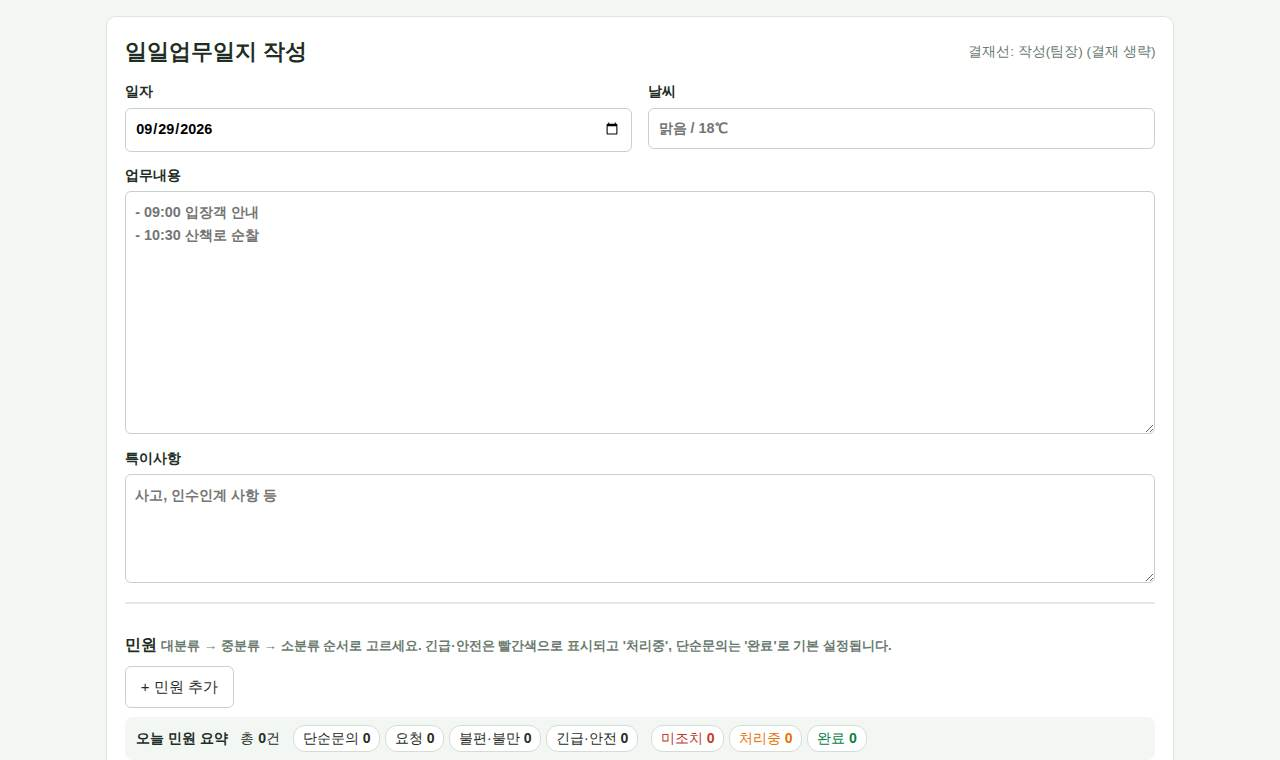
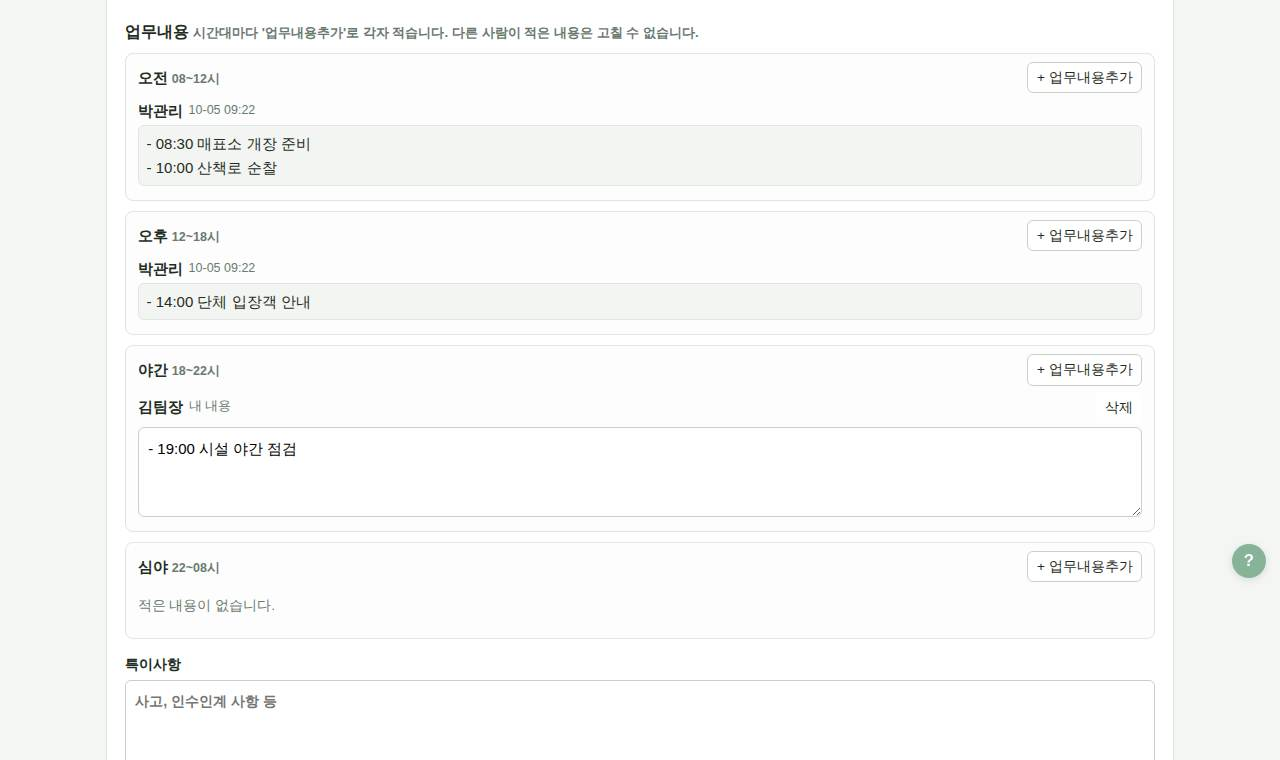
업무일지: 하루 1건 · 시간대별(오전·오후·야간·심야) 업무내용 (DB v47)
- 같은 날짜 일지가 있으면 새로 만들지 않고 그 일지로 이동, 저장 시 중복 차단
- daily_entries: 시간대별 작성자별 업무내용, 업무내용추가 창으로 입력
- 다른 사람 항목은 읽기 전용, 본인 항목만 수정·삭제
- 예전 일지는 기존 입력 방식 유지, 도움말·README·업데이트 내역 반영

Claude-Session: https://claude.ai/code/session_01Lr6yxKyasrSL9QLfMX5TX8

diff --git a/assets/style.css b/assets/style.css
@@ -1260,3 +1260,24 @@ body.rt-printmode .rt-focus-print { white-space: pre-wrap; font-size: 10pt; min-
   body.rt-printmode .help-fab, body.rt-printmode .tab-bar, body.rt-printmode main.container > .print-head { display: none !important; } /* 이 화면은 자체 머리글 */
   body.rt-printmode .rt-form .card { break-inside: avoid; }
 }
+
+/* 일일업무일지: 시간대별 업무내용 */
+.daily-slots { margin: 8px 0 14px; }
+.daily-slot { border: 1px solid var(--line, #e2e2e2); border-radius: 8px; padding: 8px 12px; margin-bottom: 10px; background: #fcfdfc; }
+.daily-slot-head { display: flex; justify-content: space-between; align-items: center; gap: 8px; }
+.daily-slot-head h4 { margin: 2px 0; }
+.daily-entry { border-top: 1px dashed var(--line, #e2e2e2); padding: 6px 0; }
+.daily-entry:first-child { border-top: 0; }
+.daily-entry .who { display: flex; align-items: center; gap: 6px; margin-bottom: 3px; }
+.daily-entry .who .btn { margin-left: auto; }
+.daily-entry.other .pre { background: #f3f5f3; border-radius: 6px; padding: 6px 8px; }
+.daily-entry.mine textarea { width: 100%; box-sizing: border-box; }
+.daily-entry.new { background: #fffbea; border-radius: 6px; padding: 6px; }
+.daily-dialog { width: min(640px, 92vw); border: 1px solid var(--line, #ccc); border-radius: 10px; padding: 16px; }
+.daily-dialog::backdrop { background: rgba(0, 0, 0, .35); }
+.daily-dialog textarea { width: 100%; box-sizing: border-box; }
+.daily-view { display: grid; grid-template-columns: 1fr 1fr; gap: 10px; }
+@media (max-width: 800px) { .daily-view { grid-template-columns: 1fr; } }
+.daily-view-slot { border: 1px solid var(--line, #e2e2e2); border-radius: 8px; padding: 6px 10px; }
+.daily-view-slot h4 { margin: 2px 0 4px; }
+@media print { .daily-view { grid-template-columns: 1fr 1fr; } }

diff --git a/app/daily.php b/app/daily.php
@@ -1,0 +1,206 @@
+<?php
+defined('APP_ROOT') || exit;
+
+/*
+ * 일일업무일지(운영관리 › 업무일지): 하루 1건, 업무내용을 시간대(오전·오후·야간·심야)로 나눠 사람마다 따로 적는다.
+ *   '업무내용추가'를 누르면 로그인한 사람의 작성 창이 뜨고, 다른 사람이 적은 내용은 고칠 수 없는 글로 보인다.
+ *   journals.content 는 시간대별 내용을 모아 자동으로 만든다 (목록·수정 이력·검색에 그대로 쓰임).
+ *   이 기능 전에 쓴 일지(시간대 내용 없이 업무내용만 있는 문서)는 예전처럼 업무내용 한 칸으로 보이고 고친다.
+ */
+
+const DAILY_SLOTS = ['am' => ['오전', '08~12시'], 'pm' => ['오후', '12~18시'], 'eve' => ['야간', '18~22시'], 'night' => ['심야', '22~08시']];
+
+/** 시간대별 업무내용 [slot => [['id','user_id','user_name','content','created_at','updated_at'], ...]] */
+function daily_entries(int $journalId): array
+{
+    $out = array_fill_keys(array_keys(DAILY_SLOTS), []);
+    if (!$journalId) return $out;
+    $st = db()->prepare('SELECT d.*, u.name AS user_name FROM daily_entries d LEFT JOIN users u ON u.id = d.user_id WHERE d.journal_id = ? ORDER BY d.id');
+    $st->execute([$journalId]);
+    foreach ($st as $r) if (isset($out[$r['slot']])) $out[$r['slot']][] = $r;
+    return $out;
+}
+
+/** 예전 방식(업무내용 한 칸) 문서: 시간대 내용이 없고 업무내용이 있는 문서 */
+function daily_is_legacy(?array $journal): bool
+{
+    if (!$journal || $journal['type'] !== 'daily' || trim((string) $journal['content']) === '') return false;
+    $st = db()->prepare('SELECT COUNT(*) FROM daily_entries WHERE journal_id = ?');
+    $st->execute([(int) $journal['id']]);
+    return !(int) $st->fetchColumn();
+}
+
+/** 그 날의 일일업무일지 (하루 1건, 반려 포함 — 있으면 그 문서를 고친다) */
+function daily_find_by_date(string $date, int $exceptId = 0): ?array
+{
+    $st = db()->prepare("SELECT id FROM journals WHERE type = 'daily' AND work_date = ? AND id <> ? ORDER BY id LIMIT 1");
+    $st->execute([$date, $exceptId]);
+    $id = (int) $st->fetchColumn();
+    return $id ? journal_find($id) : null;
+}
+
+/**
+ * 폼에서 보낸 내 업무내용: mine[id] = 고친 기존 내용, new[slot][] = 새로 추가한 내용
+ * @return array{mine: array<int,string>, new: array<string,string[]>}
+ */
+function daily_parse_post(): array
+{
+    $mine = [];
+    foreach ((array) ($_POST['mine'] ?? []) as $id => $text) {
+        $text = trim((string) $text);
+        if ((int) $id > 0 && $text !== '') $mine[(int) $id] = mb_substr($text, 0, 5000);
+    }
+    $new = [];
+    foreach (DAILY_SLOTS as $slot => $_) {
+        foreach ((array) ($_POST['new'][$slot] ?? []) as $text) {
+            $text = trim((string) $text);
+            if ($text !== '') $new[$slot][] = mb_substr($text, 0, 5000);
+        }
+    }
+    return ['mine' => $mine, 'new' => $new];
+}
+
+/** 저장 후 남을 업무내용 수 (다른 사람 것 + 내 것) — 하나도 없으면 저장 안 함 */
+function daily_count_after(int $journalId, array $user, array $posted): int
+{
+    $n = 0;
+    foreach (daily_entries($journalId) as $rows) foreach ($rows as $r) {
+        if ((int) $r['user_id'] !== (int) $user['id']) $n++;
+        elseif (isset($posted['mine'][(int) $r['id']])) $n++;
+    }
+    return $n + array_sum(array_map('count', $posted['new']));
+}
+
+/** 내 업무내용만 저장 (다른 사람 것은 그대로), journals.content 를 다시 만든다 */
+function daily_save(int $journalId, array $user, array $posted): void
+{
+    $pdo = db();
+    $uid = (int) $user['id'];
+    foreach (daily_entries($journalId) as $rows) foreach ($rows as $r) {
+        if ((int) $r['user_id'] !== $uid) continue; // 다른 사람이 쓴 내용은 손대지 않음
+        $id = (int) $r['id'];
+        if (!isset($posted['mine'][$id])) $pdo->prepare('DELETE FROM daily_entries WHERE id = ? AND user_id = ?')->execute([$id, $uid]);
+        elseif ($posted['mine'][$id] !== $r['content']) $pdo->prepare('UPDATE daily_entries SET content = ? WHERE id = ? AND user_id = ?')->execute([$posted['mine'][$id], $id, $uid]);
+    }
+    $ins = $pdo->prepare('INSERT INTO daily_entries (journal_id, slot, user_id, content) VALUES (?, ?, ?, ?)');
+    foreach ($posted['new'] as $slot => $texts) foreach ($texts as $text) $ins->execute([$journalId, $slot, $uid, $text]);
+    $pdo->prepare('UPDATE journals SET content = ? WHERE id = ?')->execute([daily_compose($journalId), $journalId]);
+}
+
+/** 시간대별 내용을 한 글로 (journals.content) */
+function daily_compose(int $journalId): string
+{
+    $parts = [];
+    foreach (daily_entries($journalId) as $slot => $rows) {
+        if (!$rows) continue;
+        [$name, $hours] = DAILY_SLOTS[$slot];
+        $lines = ["[$name $hours]"];
+        foreach ($rows as $r) $lines[] = '- ' . ($r['user_name'] ?? '?') . ': ' . str_replace("\n", "\n  ", trim($r['content']));
+        $parts[] = implode("\n", $lines);
+    }
+    return implode("\n\n", $parts);
+}
+
+/** 작성 화면: 시간대 4칸 — 다른 사람 내용은 글로, 내 내용은 고칠 수 있게, '업무내용추가'로 작성 창 */
+function daily_form(?array $journal, array $user): void
+{
+    $entries = daily_entries((int) ($journal['id'] ?? 0));
+    $uid = (int) $user['id'];
+    $posted = is_post() ? daily_parse_post() : null; // 저장이 막혀 다시 보일 때는 보낸 값을 그대로
+    ?>
+<div class="daily-slots" data-daily-slots>
+  <h3>업무내용 <small class="muted">시간대마다 '업무내용추가'로 각자 적습니다. 다른 사람이 적은 내용은 고칠 수 없습니다.</small></h3>
+  <?php foreach (DAILY_SLOTS as $slot => [$name, $hours]): ?>
+  <section class="daily-slot" data-slot="<?= $slot ?>">
+    <div class="daily-slot-head">
+      <h4><?= e($name) ?> <small class="muted"><?= e($hours) ?></small></h4>
+      <button type="button" class="btn small" data-add-entry="<?= $slot ?>" data-slot-label="<?= e("$name ($hours)") ?>">+ 업무내용추가</button>
+    </div>
+    <div class="daily-entries">
+      <?php foreach ($entries[$slot] as $r): $id = (int) $r['id']; ?>
+        <?php if ((int) $r['user_id'] !== $uid): ?>
+          <div class="daily-entry other"><div class="who"><b><?= e((string) $r['user_name']) ?></b> <small class="muted"><?= e(substr((string) ($r['updated_at'] ?? $r['created_at']), 5, 11)) ?></small></div><div class="pre"><?= e($r['content']) ?></div></div>
+        <?php elseif (!$posted || isset($posted['mine'][$id])): ?>
+          <div class="daily-entry mine"><div class="who"><b><?= e($user['name']) ?></b> <small class="muted">내 내용</small> <button type="button" class="btn small ghost" data-del-entry>삭제</button></div>
+            <textarea name="mine[<?= $id ?>]" rows="3"><?= e($posted['mine'][$id] ?? $r['content']) ?></textarea></div>
+        <?php endif ?>
+      <?php endforeach ?>
+      <?php foreach ($posted['new'][$slot] ?? [] as $text): ?>
+        <div class="daily-entry mine new"><div class="who"><b><?= e($user['name']) ?></b> <small class="muted">새 내용 (저장 전)</small> <button type="button" class="btn small ghost" data-del-entry>삭제</button></div>
+          <textarea name="new[<?= $slot ?>][]" rows="3"><?= e($text) ?></textarea></div>
+      <?php endforeach ?>
+      <p class="muted small daily-empty">적은 내용이 없습니다.</p>
+    </div>
+  </section>
+  <?php endforeach ?>
+</div>
+<dialog class="daily-dialog" data-entry-dialog>
+  <!-- 작성 화면의 큰 form 안이라 form 을 겹치지 않고 버튼으로 닫는다 -->
+  <h3>업무내용추가 · <span data-dialog-slot></span></h3>
+  <p class="small muted">작성자: <b><?= e($user['name']) ?></b> — 추가한 뒤 아래 '저장'을 눌러야 일지에 남습니다.</p>
+  <textarea rows="7" data-dialog-text placeholder="- 09:00 입장객 안내&#10;- 10:30 산책로 순찰"></textarea>
+  <div class="actions"><button type="button" class="btn ghost" data-dialog-cancel>취소</button><button type="button" class="btn primary" data-dialog-ok>추가</button></div>
+</dialog>
+<script>
+(function () {
+  const root = document.querySelector('[data-daily-slots]');
+  const dlg = document.querySelector('[data-entry-dialog]');
+  if (!root || !dlg) return;
+  const me = <?= json_encode($user['name'], JSON_UNESCAPED_UNICODE) ?>;
+  const esc = (s) => s.replace(/[&<>"]/g, (c) => ({ '&': '&amp;', '<': '&lt;', '>': '&gt;', '"': '&quot;' }[c]));
+  const refresh = () => root.querySelectorAll('.daily-slot').forEach((s) => { s.querySelector('.daily-empty').hidden = !!s.querySelector('.daily-entry'); });
+  let slot = null;
+  root.addEventListener('click', (ev) => {
+    const add = ev.target.closest('[data-add-entry]');
+    if (add) {
+      slot = add.dataset.addEntry;
+      dlg.querySelector('[data-dialog-slot]').textContent = add.dataset.slotLabel;
+      dlg.querySelector('[data-dialog-text]').value = '';
+      dlg.returnValue = '';
+      dlg.showModal ? dlg.showModal() : dlg.setAttribute('open', '');
+      dlg.querySelector('[data-dialog-text]').focus();
+      return;
+    }
+    const del = ev.target.closest('[data-del-entry]');
+    if (del && confirm('이 내용을 지울까요? (저장해야 반영됩니다)')) { del.closest('.daily-entry').remove(); refresh(); }
+  });
+  const close = (v) => (dlg.close ? dlg.close(v) : (dlg.removeAttribute('open'), dlg.dispatchEvent(new Event('close'))));
+  dlg.querySelector('[data-dialog-cancel]').addEventListener('click', () => close('cancel'));
+  dlg.querySelector('[data-dialog-ok]').addEventListener('click', () => close('ok'));
+  dlg.addEventListener('keydown', (ev) => { if (ev.key === 'Enter' && (ev.ctrlKey || ev.metaKey)) close('ok'); });
+  dlg.addEventListener('close', () => {
+    const text = dlg.querySelector('[data-dialog-text]').value.trim();
+    if (dlg.returnValue !== 'ok' || !text || !slot) return;
+    const box = document.createElement('div');
+    box.className = 'daily-entry mine new';
+    box.innerHTML = '<div class="who"><b>' + esc(me) + '</b> <small class="muted">새 내용 (저장 전)</small> <button type="button" class="btn small ghost" data-del-entry>삭제</button></div>'
+      + '<textarea name="new[' + slot + '][]" rows="3"></textarea>';
+    box.querySelector('textarea').value = text;
+    root.querySelector('.daily-slot[data-slot="' + slot + '"] .daily-entries').insertBefore(box, root.querySelector('.daily-slot[data-slot="' + slot + '"] .daily-empty'));
+    refresh();
+  });
+  refresh();
+})();
+</script>
+    <?php
+}
+
+/** 보기 화면: 시간대별 업무내용 */
+function daily_view(int $journalId): void
+{
+    $entries = daily_entries($journalId);
+    ?>
+<h3>업무내용</h3>
+<div class="daily-view">
+  <?php foreach (DAILY_SLOTS as $slot => [$name, $hours]): ?>
+  <div class="daily-view-slot">
+    <h4><?= e($name) ?> <small class="muted"><?= e($hours) ?></small></h4>
+    <?php foreach ($entries[$slot] as $r): ?>
+      <div class="daily-entry other"><div class="who"><b><?= e((string) $r['user_name']) ?></b></div><div class="pre"><?= e($r['content']) ?></div></div>
+    <?php endforeach ?>
+    <?php if (!$entries[$slot]): ?><p class="muted small">-</p><?php endif ?>
+  </div>
+  <?php endforeach ?>
+</div>
+    <?php
+}

diff --git a/write.php b/write.php
@@ -34,7 +34,14 @@ if ($id) {
     }
     if ($type === 'arwork') $workDate = substr($workDate, 0, 7) . '-01'; // AR 사용보고는 월 단위 (그 달 1일)
     $payload = items_default($type, $teamId ?: null);
+    // 일일업무일지는 하루 1건: 그 날 일지가 있으면 그 문서로
+    if ($type === 'daily' && !is_post() && ($exist = daily_find_by_date($workDate))) {
+        if (can_edit_journal($exist, $user)) redirect('write.php?id=' . (int) $exist['id']);
+        flash(date('n월 j일', strtotime($workDate)) . ' 업무일지는 이미 있습니다 (임시저장 문서는 작성자만 고칠 수 있음).', 'info');
+        redirect('view.php?id=' . (int) $exist['id']);
+    }
 }
+$dailyLegacy = $type === 'daily' && daily_is_legacy($journal); // 이 기능 전에 쓴 일지는 예전처럼 업무내용 한 칸
 
 if ($menu = journal_menu($type)) require_menu($user, $menu);
 if (!can_write_type($user, $type)) abort(403, match ($type) {
@@ -68,7 +75,16 @@ if (is_post()) {
     }
 
     if (!valid_date($workDate)) $errors[] = '일자를 확인하세요.';
-    if ($type === 'daily' && $content === '') $errors[] = '업무내용을 입력하세요.';
+    if ($type === 'daily') {
+        if ($dailyLegacy) {
+            if ($content === '') $errors[] = '업무내용을 입력하세요.';
+        } else {
+            $dailyPosted = daily_parse_post();
+            if (!daily_count_after((int) $id, $user, $dailyPosted)) $errors[] = "업무내용을 하나 이상 적으세요. 시간대의 '업무내용추가'를 누르면 적을 수 있습니다.";
+            $content = (string) ($journal['content'] ?? ''); // 시간대 내용을 모아 저장 후 다시 만든다
+        }
+        if (valid_date($workDate) && ($dup = daily_find_by_date($workDate, (int) $id))) $errors[] = date('n월 j일', strtotime($workDate)) . ' 업무일지가 이미 있습니다 (문서번호 ' . (int) $dup['id'] . '). 업무일지는 하루에 하나입니다.';
+    }
 
     diag_trace("write $type #$id 입력 확인");
     [$payload, $itemErrors] = items_parse($type, valid_date($workDate) ? $workDate : date('Y-m-d'), $id);
@@ -89,6 +105,7 @@ if (is_post()) {
             }
             diag_trace("문서 #$id 저장 중");
             items_save($id, $type, $payload);
+            if ($type === 'daily' && !$dailyLegacy) daily_save($id, $user, $dailyPosted); // 내 시간대 업무내용 (다른 사람 것은 그대로)
             diag_trace('내용 저장 끝');
             // 운영보고 날짜를 바꿨으면 원래 날짜의 매출보고 프로그램 판매도 다시 맞춘다
             if ($journal && is_program_type($type) && $journal['work_date'] !== $workDate) sales_sync_programs($journal['work_date'], PROGRAM_TYPES[$type] . " 운영보고 날짜 변경 {$journal['work_date']} → $workDate (문서 $id)");
@@ -177,7 +194,9 @@ if ($type === 'rooms') rooms_fill_panel($workDate, $journal, $fillRep);
   </div>
 
   <?php if ($type === 'daily'): ?>
+    <?php if ($dailyLegacy): ?>
     <label>업무내용<textarea name="content" rows="10" required placeholder="- 09:00 입장객 안내&#10;- 10:30 산책로 순찰"><?= $v('content') ?></textarea></label>
+    <?php else: daily_form($journal, $user); endif ?>
     <label>특이사항<textarea name="remarks" rows="4" placeholder="사고, 인수인계 사항 등"><?= $v('remarks') ?></textarea></label>
     <?php cpl_form($payload['complaints'] ?? [], $workDate) ?>
   <?php else: ?>

diff --git a/app/help.php b/app/help.php
@@ -132,9 +132,11 @@ HTML],
 HTML],
         ]],
         ['id' => 'g-ops', 'label' => '운영관리', 'items' => [
-            ['id' => 'daily', 'title' => '업무일지 · 민원 입력', 'keys' => ['daily'], 'img' => ['daily.jpg' => '업무일지 달력', 'daily_write.jpg' => '업무일지 작성'], 'body' => <<<'HTML'
+            ['id' => 'daily', 'title' => '업무일지 · 민원 입력', 'keys' => ['daily'], 'img' => ['daily.jpg' => '업무일지 달력', 'daily_write.jpg' => '업무일지 작성 (시간대별 업무내용)', 'daily_add.jpg' => '업무내용추가 창'], 'body' => <<<'HTML'
 <ul>
-  <li>달력에서 날짜를 누르고 <b>+ 작성</b>. 업무내용(필수)·날씨·특이사항을 입력합니다. 임시저장은 모든 직원이 이어서 고칠 수 있습니다.</li>
+  <li>업무일지는 <b>하루에 1건</b>입니다. 달력에서 날짜를 누르고 <b>+ 작성</b> — 그 날 일지가 이미 있으면 그 일지를 이어서 쓰는 화면으로 갑니다. 날씨·특이사항을 입력하고, 임시저장은 모든 직원이 이어서 고칠 수 있습니다.</li>
+  <li><b>업무내용</b>은 <b>오전(08~12시) · 오후(12~18시) · 야간(18~22시) · 심야(22~08시)</b>로 나뉩니다. 시간대의 <b>+ 업무내용추가</b>를 누르면 창이 떠서 로그인한 본인 이름으로 업무내용을 적습니다 (1개 이상 필수).
+    다른 사람이 쓴 내용은 이름과 함께 고칠 수 없는 글로 보이고, 본인이 쓴 내용만 고치거나 삭제할 수 있습니다. 예전에 쓴 일지는 예전처럼 한 칸으로 고칩니다.</li>
   <li><b>민원</b>: '+ 민원 추가'로 여러 건. 대분류(단순문의·요청·불편·불만·긴급·안전) → 중분류 → 소분류, 접수경로, 장소(객실·시설), 내용, 건수, 처리상태·처리일자, 조치내용.
     긴급·안전은 빨간 줄로 표시됩니다.</li>
   <li><b>임시저장</b> 또는 <b>결재 올리기</b>. 달력에 작성자와 상태 색이 표시되고, 수정된 문서에는 ✎ 가 붙습니다.</li>

diff --git a/app/changelog.php b/app/changelog.php
@@ -7,6 +7,11 @@ defined('APP_ROOT') || exit;
  *   ['date' => 'YYYY-MM-DD', 'title' => '한 줄 요약', 'items' => ['자세한 내용', ...], 'menu' => '관련 메뉴(선택)']
  */
 const CHANGELOG = [
+    ['date' => '2026-10-05', 'title' => '업무일지: 하루 1건 · 시간대별 업무내용', 'menu' => '운영관리', 'items' => [
+        '업무일지는 하루에 하나만 만들어집니다. 그 날 일지가 이미 있으면 +작성을 눌러도 그 일지를 이어서 쓰는 화면으로 갑니다 (이미 있는 문서는 그대로 둡니다).',
+        '업무내용을 오전(08~12시) · 오후(12~18시) · 야간(18~22시) · 심야(22~08시)로 나눴습니다. 시간대의 \'+ 업무내용추가\'를 누르면 뜨는 창에 로그인한 본인 이름으로 업무내용을 적습니다.',
+        '다른 사람이 쓴 업무내용은 이름과 함께 고칠 수 없는 글로 보이고, 본인이 쓴 것만 고치거나 삭제할 수 있습니다. 민원 입력은 지금과 같습니다.',
+    ]],
     ['date' => '2026-10-05', 'title' => '입퇴실현황 인쇄: A4 가로 한 장', 'menu' => '객실관리', 'items' => [
         '입퇴실현황을 인쇄하면 A4 가로 방향으로, 퇴실·입실 표와 중점정비사항이 모두 한 장에 들어갑니다. 내용이 많으면 자동으로 줄여서 맞춥니다.',
         '위쪽 전날·다음날 버튼이 줄바꿈되지 않게 한 줄로 정렬했습니다.',

diff --git a/app/migrate.php b/app/migrate.php
@@ -6,7 +6,7 @@ defined('APP_ROOT') || exit;
  * 새 버전 파일을 FTP로 덮어쓰기만 하면, 첫 접속 때 부족한 테이블/컬럼을 만든다.
  * (기존 자료는 그대로 유지)
  */
-const DB_VERSION = 46;
+const DB_VERSION = 47;
 
 function db_version(): int
 {
@@ -408,6 +408,8 @@ function db_migrate(): void
     if (!column_exists('sales_lines', 'stay_nights')) {
         $pdo->exec("ALTER TABLE sales_lines ADD stay_nights TINYINT UNSIGNED NOT NULL DEFAULT 0 COMMENT '객실 연박: 한 손님이 묵는 박수 (2·3박 …, 0 = 1박)' AFTER guests");
     }
+
+    // 47) v46 → v47: 일일업무일지 시간대별 업무내용 daily_entries (1) 단계에서 생성) — 하루 1건, 작성자만 자기 내용 수정
 
     $pdo->prepare("INSERT INTO settings (name, value) VALUES ('db_version', ?) ON DUPLICATE KEY UPDATE value = VALUES(value)")
         ->execute([(string) DB_VERSION]);

diff --git a/view.php b/view.php
@@ -126,7 +126,7 @@ $docTitle = $att ? '근태 신청 · ' . $att['user_name'] . ' ' . att_kind_name
   <?php else: items_view($journal); endif ?>
   <?php if ($journal['type'] === 'rooms') vault_day_html($journal['work_date'], $id) ?>
 
-  <?php if ($journal['content']): ?>
+  <?php if ($journal['type'] === 'daily' && $journal['content'] && !daily_is_legacy($journal)): daily_view((int) $journal['id']); elseif ($journal['content']): ?>
     <h3><?= ['daily' => '업무내용', 'voucher' => '적요', 'attendance' => '사유', 'vcheck' => '점검 메모', 'purchase' => '구매 사유 · 메모'][$journal['type']] ?? '메모' ?></h3>
     <div class="pre"><?= e($journal['content']) ?></div>
   <?php endif ?>

diff --git a/app/bootstrap.php b/app/bootstrap.php
@@ -97,6 +97,7 @@ require __DIR__ . '/events.php';
 require __DIR__ . '/attendance.php';
 require __DIR__ . '/programs.php';
 require __DIR__ . '/complaints.php';
+require __DIR__ . '/daily.php';
 require __DIR__ . '/vault.php';
 require __DIR__ . '/ar.php';
 require __DIR__ . '/supplies.php';
